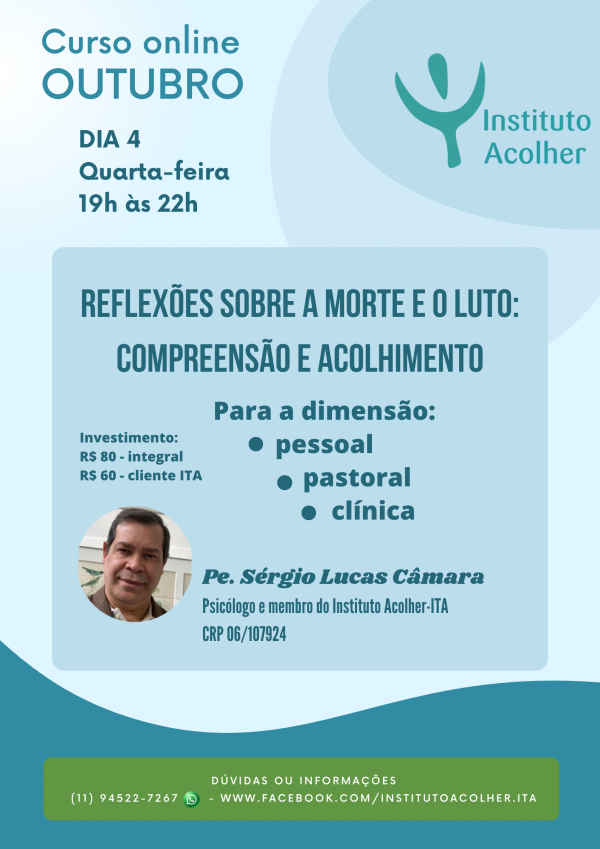
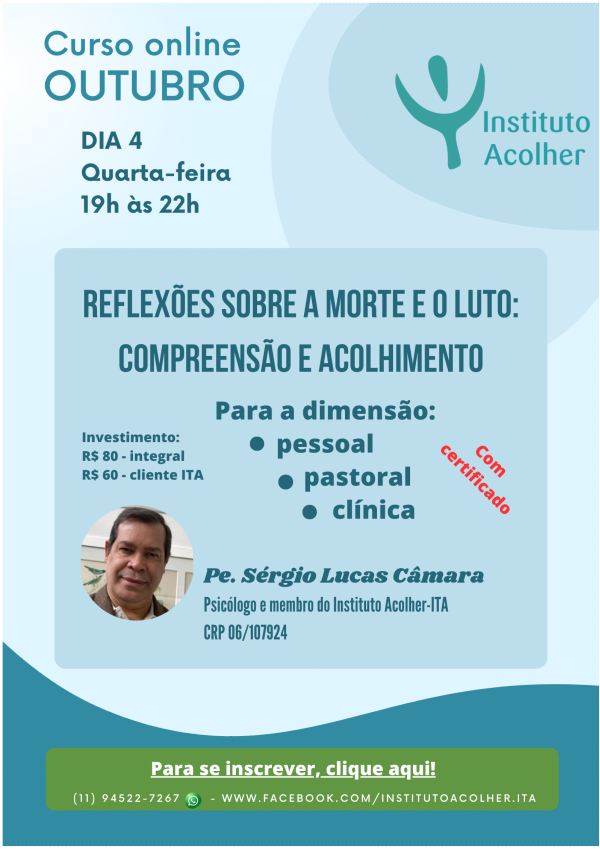
Atualização automática

diff --git a/docs/cursos_2023.html b/docs/cursos_2023.html
@@ -146,16 +146,6 @@ aspectos relacionados aos dramas e fragilidades que levam uma pessoa a atentar c
       <p class="mb0 fw3 teal-text">Local</p>
       <p class="mt0"><strong class="red-text">Curso Online</strong>
       </p>
-      <p class="fw3 teal-text">Inscrição</p>
-      <div class="row">
-        <div class="col s12 m6"><a class="btn teal darken-2 w-100" href="https://forms.gle/32635BWufx1KzwDz5" target="_blank">Realizar inscrição</a></div>
-        <div class="col s12 m6"><a class="dropdown-trigger btn w-100" href="#" data-target="dropdown2023-09-16">Incluir na minha agenda</a>
-          <ul class="dropdown-content" id="dropdown2023-09-16">
-            <li><a href="https://www.google.com/calendar/render?action=TEMPLATE&amp;text=Aspectos psicossociais e patológicos na tentativa de suicídio&amp;details=Nesta série do Instituto Acolher-ITA sobre os desafios na vida consgrada e sacedotal vamos abordar vários
-aspectos relacionados aos dramas e fragilidades que levam uma pessoa a atentar contra a própria vida.&amp;location=Sede do ITA&amp;dates=20230916T090000/20230916T120000" target="_blank">Google</a></li>
-          </ul>
-        </div>
-      </div>
       <h2 class="mt6" id="Outubro">Outubro</h2>
       <p class="tc"><img src="img/curso-2023-10-04.png"></p>
       <h3 class="mt4">Reflexões sobre a morte e o luto: compreensão e acolhimento</h3>
@@ -170,17 +160,6 @@ uma quarta-feira. Aproveite essa oportunidade de conhecer aspectos históricos, 
       <p class="mb0 fw3 teal-text">Local</p>
       <p class="mt0"><strong class="red-text">Curso Online</strong>
       </p>
-      <p class="fw3 teal-text">Inscrição</p>
-      <div class="row">
-        <div class="col s12 m6"><a class="btn teal darken-2 w-100" href="https://forms.gle/VQm5imqDMwcPsBGp9" target="_blank">Realizar inscrição</a></div>
-        <div class="col s12 m6"><a class="dropdown-trigger btn w-100" href="#" data-target="dropdown2023-10-04">Incluir na minha agenda</a>
-          <ul class="dropdown-content" id="dropdown2023-10-04">
-            <li><a href="https://www.google.com/calendar/render?action=TEMPLATE&amp;text=Reflexões sobre a morte e o luto: compreensão e acolhimento&amp;details=Atendendo a pedidos ofereceremos novamente o curso online &quot;Reflexões sobre a morte e o luto&quot;, 
-com o psicólogo e membro do Instituto Acolher-ITA, Pe. Sérgio Lucas Câmara. Desta vez, o curso será à noite, em 
-uma quarta-feira. Aproveite essa oportunidade de conhecer aspectos históricos, práticos e teóricos sobre a morte e o luto.&amp;location=Sede do ITA&amp;dates=20231004T090000/20231004T120000" target="_blank">Google</a></li>
-          </ul>
-        </div>
-      </div>
       <script>
         document.addEventListener('DOMContentLoaded', function() {
         var options = {};

diff --git a/docs/es/cursos_2023.html b/docs/es/cursos_2023.html
@@ -146,16 +146,6 @@ aspectos relacionados aos dramas e fragilidades que levam uma pessoa a atentar c
       <p class="mb0 fw3 teal-text">Local</p>
       <p class="mt0"><strong class="red-text">Curso Online</strong>
       </p>
-      <p class="fw3 teal-text">Inscrição</p>
-      <div class="row">
-        <div class="col s12 m6"><a class="btn teal darken-2 w-100" href="https://forms.gle/32635BWufx1KzwDz5" target="_blank">Realizar inscrição</a></div>
-        <div class="col s12 m6"><a class="dropdown-trigger btn w-100" href="#" data-target="dropdown2023-09-16">Incluir na minha agenda</a>
-          <ul class="dropdown-content" id="dropdown2023-09-16">
-            <li><a href="https://www.google.com/calendar/render?action=TEMPLATE&amp;text=Aspectos psicossociais e patológicos na tentativa de suicídio&amp;details=Nesta série do Instituto Acolher-ITA sobre os desafios na vida consgrada e sacedotal vamos abordar vários
-aspectos relacionados aos dramas e fragilidades que levam uma pessoa a atentar contra a própria vida.&amp;location=Sede do ITA&amp;dates=20230916T090000/20230916T120000" target="_blank">Google</a></li>
-          </ul>
-        </div>
-      </div>
       <h2 class="mt6" id="Outubro">Outubro</h2>
       <p class="tc"><img src="img/curso-2023-10-04.png"></p>
       <h3 class="mt4">Reflexões sobre a morte e o luto: compreensão e acolhimento</h3>
@@ -170,17 +160,6 @@ uma quarta-feira. Aproveite essa oportunidade de conhecer aspectos históricos, 
       <p class="mb0 fw3 teal-text">Local</p>
       <p class="mt0"><strong class="red-text">Curso Online</strong>
       </p>
-      <p class="fw3 teal-text">Inscrição</p>
-      <div class="row">
-        <div class="col s12 m6"><a class="btn teal darken-2 w-100" href="https://forms.gle/VQm5imqDMwcPsBGp9" target="_blank">Realizar inscrição</a></div>
-        <div class="col s12 m6"><a class="dropdown-trigger btn w-100" href="#" data-target="dropdown2023-10-04">Incluir na minha agenda</a>
-          <ul class="dropdown-content" id="dropdown2023-10-04">
-            <li><a href="https://www.google.com/calendar/render?action=TEMPLATE&amp;text=Reflexões sobre a morte e o luto: compreensão e acolhimento&amp;details=Atendendo a pedidos ofereceremos novamente o curso online &quot;Reflexões sobre a morte e o luto&quot;, 
-com o psicólogo e membro do Instituto Acolher-ITA, Pe. Sérgio Lucas Câmara. Desta vez, o curso será à noite, em 
-uma quarta-feira. Aproveite essa oportunidade de conhecer aspectos históricos, práticos e teóricos sobre a morte e o luto.&amp;location=Sede do ITA&amp;dates=20231004T090000/20231004T120000" target="_blank">Google</a></li>
-          </ul>
-        </div>
-      </div>
       <script>
         document.addEventListener('DOMContentLoaded', function() {
         var options = {};

diff --git a/docs/index.html b/docs/index.html
@@ -52,8 +52,8 @@
     <header></header>
     <main class="container">
       <div class="row">
-        <div class="col s12 m6"><a target="_blank" href="https://forms.gle/VQm5imqDMwcPsBGp9"> 
-<p><img src="/img/curso-2023-10-04.png" alt="Para se inscrever, clique no cartaz!"></p>
+        <div class="col s12 m6"><a target="_blank" href="https://forms.gle/1J4KGBU4F2VkdmBdA"> 
+<p><img src="/img/curso-2023-11-07.png" alt="Para se inscrever, clique no cartaz!"></p>
 </a>
 
         </div>
